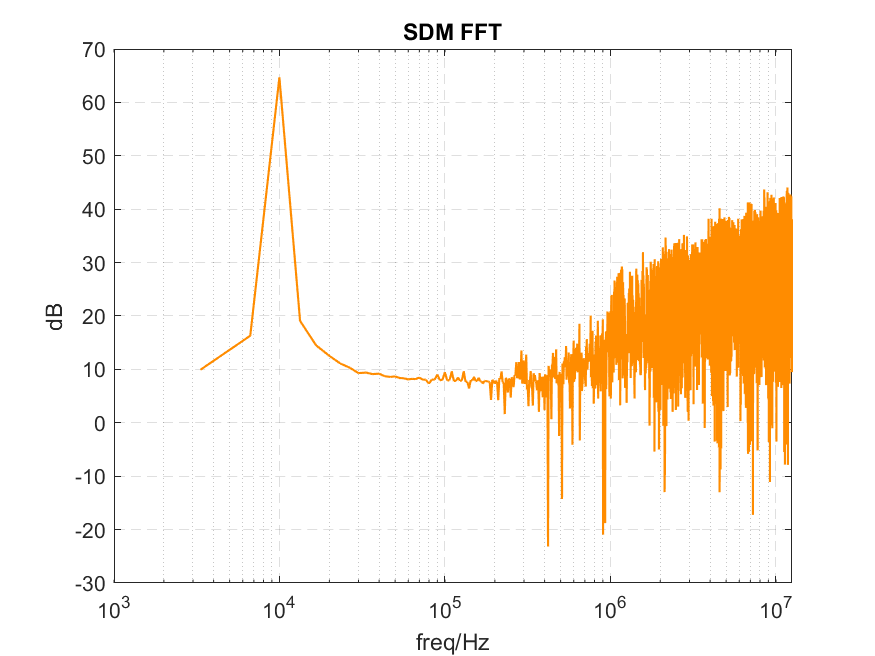
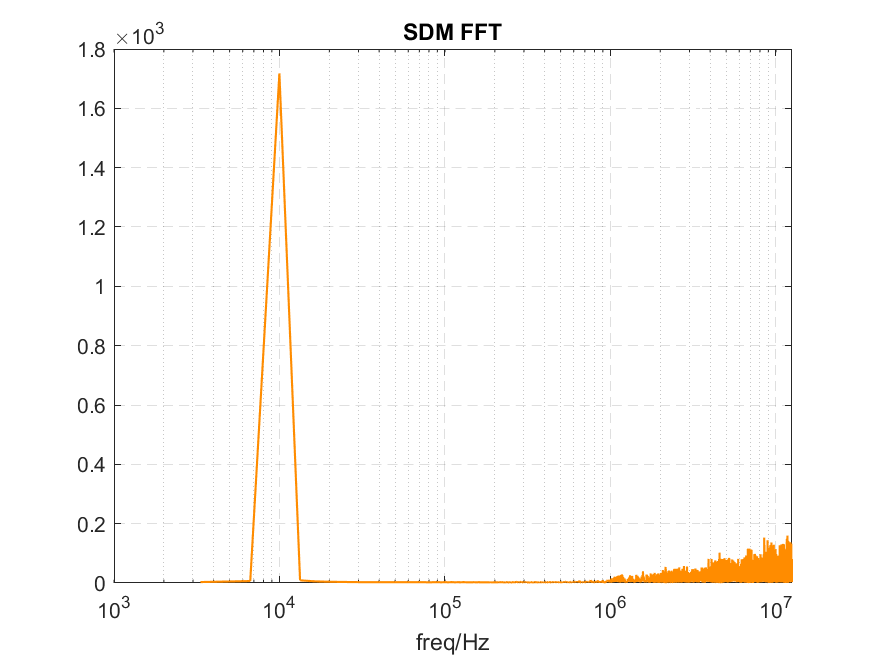
initial

diff --git a/first_order/postcheck.m b/first_order/postcheck.m
@@ -36,7 +36,8 @@ function specploter(pdmout, fs)
     N = length(pdmout);
     f = 0:(N/2-1);
     f = f./N.*fs;
-    pdmfft = mag2db(abs(fft(pdmout)));
+    pdmfft = abs(fft(pdmout));
+    %pdmfft = mag2db(pdmfft);
     pdmfft = pdmfft(1:N/2);
 
     figure(1);
@@ -46,7 +47,8 @@ function specploter(pdmout, fs)
     ax.Title.String = 'SDM FFT';
     ax.XLabel.String = 'freq/Hz';
     ax.XScale = 'log';
-    ax.YLabel.String = 'dB';
+    %ax.YLabel.String = 'dB';
+    ax.YAxis.Exponent = 3;
 
     ax.XGrid = 'on';
     ax.YGrid = 'on';
